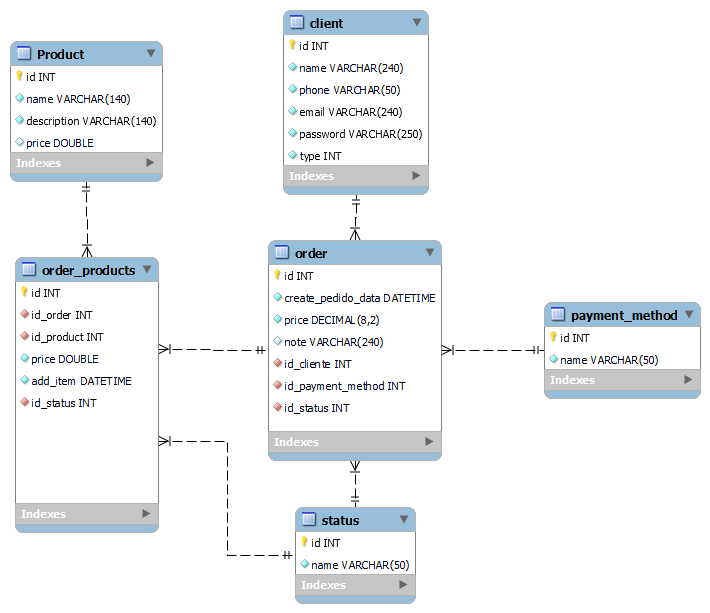
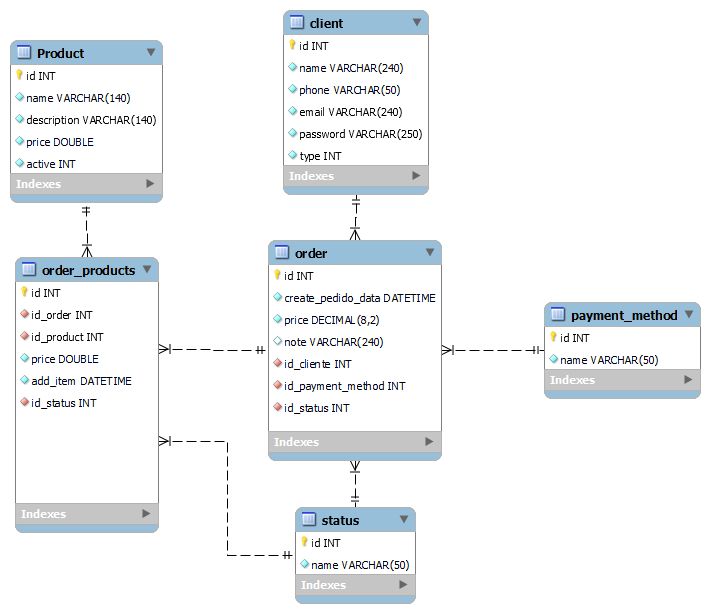
aprendendo a usar o spring e construindo a api de produtos

Changed region(s): [[0.0, 0.155, 0.2479, 0.3409], [0.0, 0.062, 0.2169, 0.124]]

diff --git a/dudu-lanches/src/main/java/br/com/pratics/dudulanches/controller/ProdutoControler.java b/dudu-lanches/src/main/java/br/com/pratics/dudulanches/controller/ProdutoControler.java
@@ -1,0 +1,69 @@
+package br.com.pratics.dudulanches.controller;
+
+import java.util.Optional;
+
+import javax.validation.Valid;
+
+import org.springframework.beans.factory.annotation.Autowired;
+import org.springframework.web.bind.annotation.DeleteMapping;
+import org.springframework.web.bind.annotation.GetMapping;
+import org.springframework.web.bind.annotation.PathVariable;
+import org.springframework.web.bind.annotation.RequestMapping;
+import org.springframework.web.bind.annotation.RequestMethod;
+import org.springframework.web.bind.annotation.ResponseBody;
+import org.springframework.web.bind.annotation.RestController;
+
+import br.com.pratics.dudulanches.models.ententies.Produto;
+import br.com.pratics.dudulanches.models.repo.produtoRepo;
+
+@RestController
+@RequestMapping("/api/produtos")
+public class ProdutoControler {
+	
+	
+	@Autowired
+	private produtoRepo produtoRepo;
+
+	
+	@RequestMapping(method = { RequestMethod.POST, RequestMethod.PUT })
+	public @ResponseBody Produto novoproduto(@Valid Produto produto) {
+		
+		produtoRepo.save(produto);
+		return produto;
+		
+	}
+
+	
+	@GetMapping
+	public Iterable<Produto> obterProduto() {
+		
+		return produtoRepo.findAll();
+	}
+
+	
+	@GetMapping("/{id}")
+	public Optional<Produto> obterProduto(@PathVariable int id) {
+
+		return produtoRepo.findById(id);
+
+	}
+
+	
+	@DeleteMapping("/{id}")
+	public Boolean deletarproduto(@PathVariable int id) {
+
+		
+		Optional<Produto> retorno = produtoRepo.findById(id);
+		if(retorno.isPresent()) {
+			Produto produto = retorno.get();
+			produto.setActive(0);
+			produtoRepo.save(produto);
+			return true;
+		}
+		return false;
+		
+		
+	}
+	
+	
+}

diff --git a/dudu-lanches/src/main/java/br/com/pratics/dudulanches/models/ententies/Produto.java b/dudu-lanches/src/main/java/br/com/pratics/dudulanches/models/ententies/Produto.java
@@ -1,0 +1,83 @@
+package br.com.pratics.dudulanches.models.ententies;
+
+import javax.persistence.Entity;
+import javax.persistence.GeneratedValue;
+import javax.persistence.GenerationType;
+import javax.persistence.Id;
+import javax.validation.constraints.NotBlank;
+import javax.validation.constraints.Min;
+@Entity
+public class Produto {
+	@Id
+	@GeneratedValue(strategy = GenerationType.IDENTITY)
+	public int id;
+	
+	@NotBlank
+	public String name;
+	
+	@NotBlank
+	public String description;
+	
+	@Min(0)
+	public double price;
+	
+	public int active;
+	
+	public Produto() {
+		
+	}
+	
+
+	public Produto(int id, @NotBlank String name, @NotBlank String description, @Min(0) double price, int active) {
+		super();
+		this.id = id;
+		this.name = name;
+		this.description = description;
+		this.price = price;
+		this.active = active;
+	}
+
+
+	public int getActive() {
+		return active;
+	}
+
+
+	public void setActive(int active) {
+		this.active = active;
+	}
+
+
+	public int getId() {
+		return id;
+	}
+
+	public void setId(int id) {
+		this.id = id;
+	}
+
+	public String getName() {
+		return name;
+	}
+
+	public void setName(String name) {
+		this.name = name;
+	}
+
+	public String getDescription() {
+		return description;
+	}
+
+	public void setDescription(String description) {
+		this.description = description;
+	}
+
+	public double getPrice() {
+		return price;
+	}
+
+	public void setPrice(double price) {
+		this.price = price;
+	}
+
+}

diff --git a/dudu-lanches/src/main/java/br/com/pratics/dudulanches/controller/ClienteController.java b/dudu-lanches/src/main/java/br/com/pratics/dudulanches/controller/ClienteController.java
@@ -6,7 +6,7 @@ import org.springframework.web.bind.annotation.RequestMapping;
 import org.springframework.web.bind.annotation.RequestParam;
 import org.springframework.web.bind.annotation.RestController;
 
-import br.com.pratics.dudulanches.models.Cliente;
+import br.com.pratics.dudulanches.models.ententies.Cliente;
 @RestController
 @RequestMapping(path="/clientes")
 public class ClienteController {

diff --git a/dudu-lanches/src/main/java/br/com/pratics/dudulanches/models/repo/produtoRepo.java b/dudu-lanches/src/main/java/br/com/pratics/dudulanches/models/repo/produtoRepo.java
@@ -1,0 +1,11 @@
+package br.com.pratics.dudulanches.models.repo;
+
+import org.springframework.data.repository.CrudRepository;
+
+import br.com.pratics.dudulanches.models.ententies.Produto;
+
+public interface produtoRepo extends CrudRepository<Produto, Integer>{
+
+	
+	
+}

diff --git a/dudu-lanches/src/main/java/br/com/pratics/dudulanches/models/ententies/Cliente.java b/dudu-lanches/src/main/java/br/com/pratics/dudulanches/models/ententies/Cliente.java
@@ -1,4 +1,4 @@
-package br.com.pratics.dudulanches.models;
+package br.com.pratics.dudulanches.models.ententies;
 
 public class Cliente {
 
